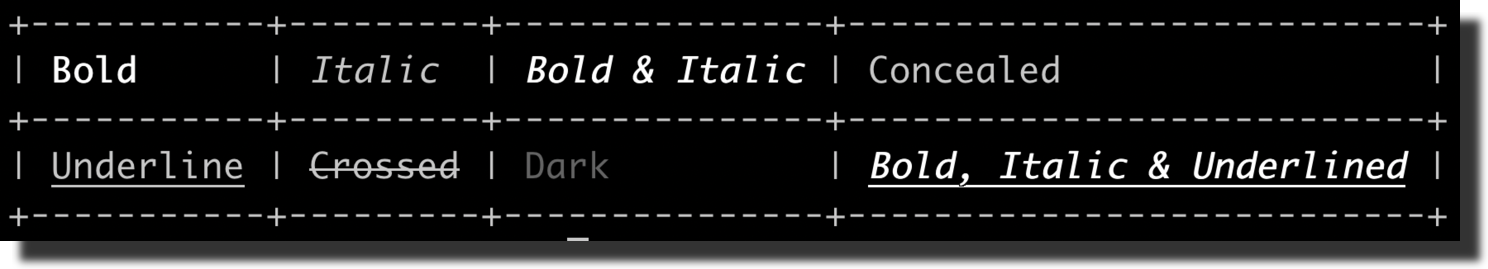
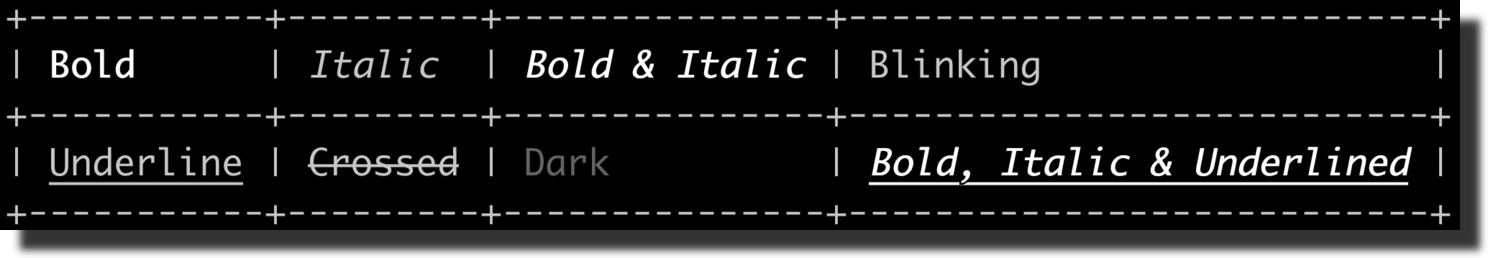
Updated font_styles sample

diff --git a/samples/font_styles.cpp b/samples/font_styles.cpp
@@ -3,7 +3,7 @@ using namespace tabulate;
 
 int main() {
   Table styled_table;
-  styled_table.add_row({"Bold", "Italic", "Bold & Italic", "Concealed"});
+  styled_table.add_row({"Bold", "Italic", "Bold & Italic", "Blinking"});
   styled_table.add_row({"Underline", "Crossed", "Dark", "Bold, Italic & Underlined"});
 
   styled_table[0][0].format()
@@ -16,7 +16,7 @@ int main() {
     .font_style({FontStyle::bold, FontStyle::italic});
 
   styled_table[0][3].format()
-    .font_style({FontStyle::concealed});
+    .font_style({FontStyle::blink});
 
   styled_table[1][0].format()
     .font_style({FontStyle::underline});
